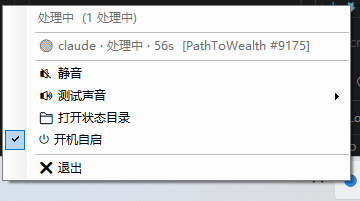
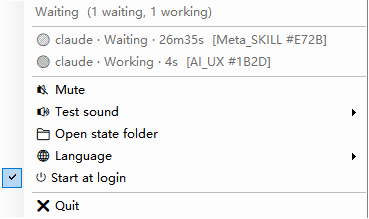
chore: sanitize machine-specific paths + add menu panel to README intro
- Replace example/personal paths with generic placeholders before going public:
  hooks/codex-notify-chain.ps1 (default $Original now empty with a <you> example;
  generic notify path) and the cwd_names unit test path.
- README: add the tray-menu panel screenshot to the intro (details.png / details_zh.png).

diff --git a/src/core.rs b/src/core.rs
@@ -588,8 +588,8 @@ mod tests {
     #[test]
     fn cwd_names_deepest_first() {
         assert_eq!(
-            cwd_names("E:\\AI My Company\\MyTools\\agent-knocks", "x", 3),
-            vec!["agent-knocks", "MyTools", "AI My Company"]
+            cwd_names("C:\\dev\\acme\\tools\\agent-knocks", "x", 3),
+            vec!["agent-knocks", "tools", "acme"]
         );
         assert_eq!(cwd_names("", "proj", 3), vec!["proj"]); // empty cwd -> fallback
         assert_eq!(cwd_names("/a/b/c/d", "x", 2), vec!["d", "c"]); // cap respected

diff --git a/README.md b/README.md
@@ -10,6 +10,10 @@ that agent's window. Native **Rust** single EXE (~0.45 MB, ~10 MB resident), no 
   <img src="pic/colors.png" width="260" alt="tri-state tray dots"><br>
   <sub>🟢 Done ｜ 🔵 Working ｜ 🟠 Waiting</sub>
 </p>
+<p align="center">
+  <img src="pic/details.png" width="320" alt="tray menu — per-session detail"><br>
+  <sub>Right-click: each session's status / elapsed / project · ↗ jump · mute · test sound · language · start at login</sub>
+</p>
 
 > The original C# / .NET build is archived under [`legacy/csharp/`](legacy/csharp/) and the
 > [`csharp-final`](https://github.com/mazjq/agent-knocks/releases/tag/csharp-final) release.

diff --git a/README.zh-CN.md b/README.zh-CN.md
@@ -10,6 +10,10 @@ agent 需要你或干完活时，它会"敲门"——变色 + 声音 + 气泡，
   <img src="pic/colors.png" width="260" alt="三态彩点"><br>
   <sub>🟢 已完成 ｜ 🔵 处理中 ｜ 🟠 等待确认</sub>
 </p>
+<p align="center">
+  <img src="pic/details_zh.png" width="320" alt="托盘菜单 — 各会话明细"><br>
+  <sub>右键：每个会话的状态 / 耗时 / 项目 · ↗ 跳转 · 静音 · 测试声音 · 语言 · 开机自启</sub>
+</p>
 
 > 原 C# / .NET 版已归档在 [`legacy/csharp/`](legacy/csharp/) 与 [`csharp-final`](https://github.com/mazjq/agent-knocks/releases/tag/csharp-final) release。
 